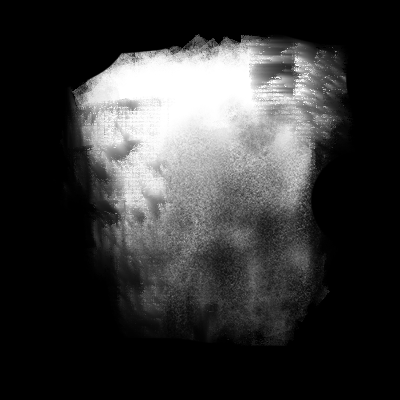
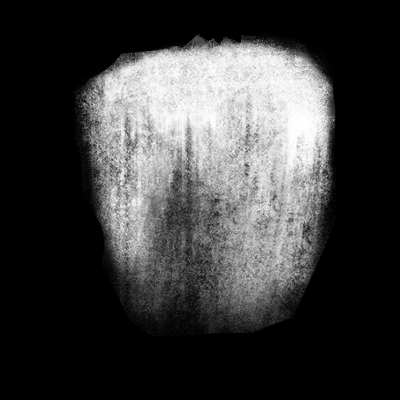
Pencil brush

Changed region(s): [[0.18, 0.09, 0.87, 0.81], [0.66, 0.78, 0.75, 0.87], [0.81, 0.72, 0.84, 0.75]]

diff --git a/LuxAnimate/Config/AppConfig.swift b/LuxAnimate/Config/AppConfig.swift
@@ -22,21 +22,20 @@ struct AppConfig {
     static let paintBrushConfig = pencilBrushConfig
     
     static let pencilBrushConfig = BrushConfiguration(
-        shapeTextureName: "brush-pencil2.png",
-//        textureTextureName: "texture1.png",
-        textureTextureName: nil,
-        stampSize: 50,
+        shapeTextureName: "brush-pencil-3.png",
+        textureTextureName: "noise3.png",
+        stampSize: 60,
         stampSpacing: 0.1,
-        stampAlpha: 0.15,
+        stampOpacity: 0.25,
         stampCount: 2,
-        stampPositionJitter: 0.05,
+        stampPositionJitter: 0,
         stampRotationJitter: 0.2,
         stampSizeJitter: 0.3,
-        stampAlphaJitter: 0.3,
-        pressureSize: 0.9,
-        pressureStampAlpha: 0.5,
+        stampOpacityJitter: 0.2,
+        pressureSize: 0.95,
+        pressureStampOpacity: 0.5,
         taperLength: 0.1,
-        taperRoundness: 0.5,
+        taperRoundness: 0.9,
         taperSize: 0.8,
         sizeWobble: 0,
         offsetWobble: 0,
@@ -49,7 +48,7 @@ struct AppConfig {
         textureTextureName: nil,
         stampSize: 300,
         stampSpacing: 0,
-        stampAlpha: 1,
+        stampOpacity: 1,
         pressureSize: 0,
         taperLength: 0.1,
         taperRoundness: 1,
@@ -65,7 +64,7 @@ struct AppConfig {
         textureTextureName: nil,
         stampSize: 200,
         stampSpacing: 0,
-        stampAlpha: 1,
+        stampOpacity: 1,
         pressureSize: 0.5,
         taperLength: 0,
         taperRoundness: 0,
@@ -80,7 +79,7 @@ struct AppConfig {
         textureTextureName: nil,
         stampSize: 200,
         stampSpacing: 0,
-        stampAlpha: 1,
+        stampOpacity: 1,
         pressureSize: 0,
         taperLength: 1.0,
         taperRoundness: 1.0,
@@ -96,7 +95,7 @@ struct AppConfig {
         textureTextureName: nil,
         stampSize: 30,
         stampSpacing: 0.0,
-        stampAlpha: 1,
+        stampOpacity: 1,
         pressureSize: 0.4,
         taperLength: 0.1,
         taperRoundness: 1,
@@ -112,7 +111,7 @@ struct AppConfig {
         textureTextureName: nil,
         stampSize: 100,
         stampSpacing: 0.0,
-        stampAlpha: 1,
+        stampOpacity: 1,
         pressureSize: 0.5,
         taperLength: 0.4,
         taperRoundness: 1.0,
@@ -128,7 +127,7 @@ struct AppConfig {
         textureTextureName: nil,
         stampSize: 200,
         stampSpacing: 1,
-        stampAlpha: 1,
+        stampOpacity: 1,
         pressureSize: 0,
         taperLength: 0,
         taperRoundness: 0,
@@ -143,7 +142,7 @@ struct AppConfig {
         textureTextureName: nil,
         stampSize: 200,
         stampSpacing: 0.0,
-        stampAlpha: 1,
+        stampOpacity: 1,
         pressureSize: 0,
         taperLength: 0,
         taperRoundness: 1,

diff --git a/BrushEngine/Sources/BrushEngine/Brush/Brush.swift b/BrushEngine/Sources/BrushEngine/Brush/Brush.swift
@@ -1,6 +1,8 @@
 
 import Metal
 import MetalKit
+
+// TODO: Add parameters for pressure sensitivity (gamma)!
     
 public struct BrushConfiguration: Sendable {
     
@@ -9,16 +11,16 @@ public struct BrushConfiguration: Sendable {
     
     public var stampSize: Double
     public var stampSpacing: Double
-    public var stampAlpha: Double
+    public var stampOpacity: Double
     
     public var stampCount: Int
     public var stampPositionJitter: Double
     public var stampRotationJitter: Double
     public var stampSizeJitter: Double
-    public var stampAlphaJitter: Double
+    public var stampOpacityJitter: Double
     
     public var pressureSize: Double
-    public var pressureStampAlpha: Double
+    public var pressureStampOpacity: Double
     
     public var taperLength: Double
     public var taperRoundness: Double
@@ -36,14 +38,14 @@ public struct BrushConfiguration: Sendable {
         textureTextureName: String?,
         stampSize: Double,
         stampSpacing: Double,
-        stampAlpha: Double,
+        stampOpacity: Double,
         stampCount: Int = 1,
         stampPositionJitter: Double = 0,
         stampRotationJitter: Double = 0,
         stampSizeJitter: Double = 0,
-        stampAlphaJitter: Double = 0,
+        stampOpacityJitter: Double = 0,
         pressureSize: Double,
-        pressureStampAlpha: Double = 0,
+        pressureStampOpacity: Double = 0,
         taperLength: Double,
         taperRoundness: Double,
         taperSize: Double = 0,
@@ -57,14 +59,14 @@ public struct BrushConfiguration: Sendable {
         self.textureTextureName = textureTextureName
         self.stampSize = stampSize
         self.stampSpacing = stampSpacing
-        self.stampAlpha = stampAlpha
+        self.stampOpacity = stampOpacity
         self.stampCount = stampCount
         self.stampPositionJitter = stampPositionJitter
         self.stampRotationJitter = stampRotationJitter
         self.stampSizeJitter = stampSizeJitter
-        self.stampAlphaJitter = stampAlphaJitter
+        self.stampOpacityJitter = stampOpacityJitter
         self.pressureSize = pressureSize
-        self.pressureStampAlpha = pressureStampAlpha
+        self.pressureStampOpacity = pressureStampOpacity
         self.taperLength = taperLength
         self.taperRoundness = taperRoundness
         self.taperSize = taperSize

diff --git a/BrushEngine/Sources/BrushEngine/Stroke Engine/Shared/StrokeSampleGenerator.swift b/BrushEngine/Sources/BrushEngine/Stroke Engine/Shared/StrokeSampleGenerator.swift
@@ -80,12 +80,12 @@ struct StrokeSampleGenerator {
         
         let pressure = pow(clampedPressure, pressurePower)
         
-        let pressureScaleFactor = 1
+        let pressureSize = 1
             - brush.configuration.pressureSize
             * (1 - pressure)
         
-        let pressureAlpha = 1
-            - brush.configuration.pressureStampAlpha
+        let pressureOpacity = 1
+            - brush.configuration.pressureStampOpacity
             * (1 - pressure)
         
         // Taper
@@ -114,16 +114,16 @@ struct StrokeSampleGenerator {
             - brush.configuration.wobblePressureAttenuation
             * pow(pressure, 3)
         
-        let wobbleScaleFactor = 1
+        let wobbleSize = 1
             + sizeWobble
             * brush.configuration.sizeWobble
             * wobbleIntensity
         
         // Stamp size
         let stampSizeUnclamped = baseStampSize
-            * pressureScaleFactor
+            * pressureSize
             * taperSize
-            * wobbleScaleFactor
+            * wobbleSize
         
         let stampSize = max(
             stampSizeUnclamped,
@@ -161,9 +161,9 @@ struct StrokeSampleGenerator {
             stampOffset = stampOffset.normalized()
         }
         
-        // Stamp alpha
-        let stampAlpha = brush.configuration.stampAlpha
-            * pressureAlpha
+        // Stamp opacity
+        let stampOpacity = brush.configuration.stampOpacity
+            * pressureOpacity
         
         // Stroke sample
         let strokeSample = StrokeSample(
@@ -172,7 +172,7 @@ struct StrokeSampleGenerator {
             stampOffset: stampOffset,
             stampSize: stampSize,
             stampRotation: stampRotation,
-            stampAlpha: stampAlpha)
+            stampOpacity: stampOpacity)
         
         let isNonFinalized = isInTaperEnd
         

diff --git a/BrushEngine/Sources/BrushEngine/Stroke Engine/Shared/StrokeStampGenerator.swift b/BrushEngine/Sources/BrushEngine/Stroke Engine/Shared/StrokeStampGenerator.swift
@@ -47,7 +47,7 @@ struct StrokeStampGenerator {
         for _ in 0 ..< stampCount {
             var position = position
             var size = s.stampSize
-            var alpha = s.stampAlpha
+            var opacity = s.stampOpacity
             
             let positionJitter = positionJitter(
                 brush: brush,
@@ -60,8 +60,8 @@ struct StrokeStampGenerator {
             size = size
                 * (1 - Double.random(in: 0 ..< 1) * brush.configuration.stampSizeJitter)
             
-            alpha = alpha
-                * (1 - Double.random(in: 0 ..< 1) * brush.configuration.stampAlphaJitter)
+            opacity = opacity
+                * (1 - Double.random(in: 0 ..< 1) * brush.configuration.stampOpacityJitter)
             
             let paddingScale: Double =
                 s.stampSize < paddingSizeThreshold ?
@@ -75,7 +75,7 @@ struct StrokeStampGenerator {
                 size: Size(size, size),
                 transform: transform,
                 color: color,
-                alpha: alpha,
+                alpha: opacity,
                 paddingScale: paddingScale)
             
             output.append(sprite)

diff --git a/BrushEngine/Sources/BrushEngine/Types.swift b/BrushEngine/Sources/BrushEngine/Types.swift
@@ -116,7 +116,7 @@ struct StrokeSample {
     var stampOffset: Vector
     var stampSize: Double
     var stampRotation: Complex
-    var stampAlpha: Double
+    var stampOpacity: Double
     
 }
 
@@ -157,7 +157,7 @@ extension StrokeSample: Interpolatable {
             stampOffset: .zero,
             stampSize: 0,
             stampRotation: .zero,
-            stampAlpha: 0)
+            stampOpacity: 0)
     }
     
     mutating func combine(
@@ -169,7 +169,7 @@ extension StrokeSample: Interpolatable {
         stampOffset    += w * v.stampOffset
         stampSize      += w * v.stampSize
         stampRotation  += w * v.stampRotation
-        stampAlpha     += w * v.stampAlpha
+        stampOpacity     += w * v.stampOpacity
     }
     
 }

diff --git a/LuxAnimate/Logic/Project Creator/ProjectCreator.swift b/LuxAnimate/Logic/Project Creator/ProjectCreator.swift
@@ -5,8 +5,7 @@
 import Foundation
 
 private let defaultCanvasSize = PixelSize(
-    width: 1920, 
-    height: 1080)
+    width: 1920, height: 1080)
 
 private let defaultFramesPerSecond = 12
 
